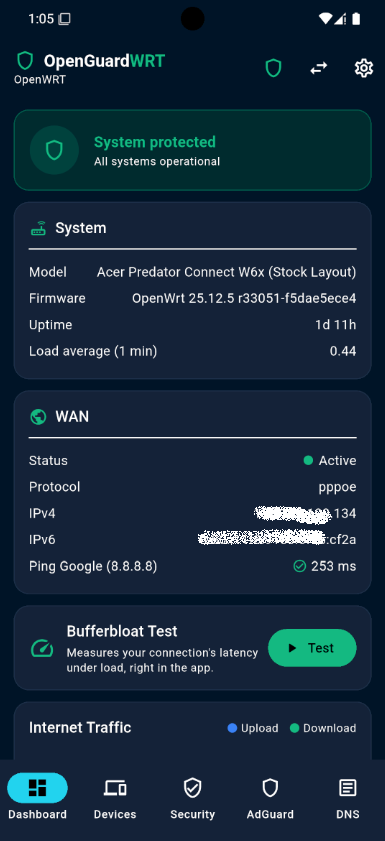
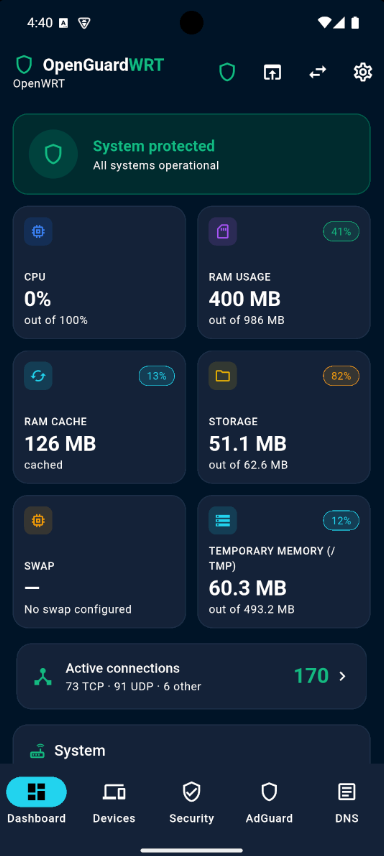
Update landing page gallery with 6 current-UI screenshots
Adds a 6th screenshot (Dashboard's SQM/DDNS/Interfaces section) and
refreshes the other 5 to match the app's current UI.

diff --git a/index.html b/index.html
@@ -226,10 +226,11 @@
     <p class="subtitle">Todo dado pessoal visível nas capturas (IP público, nomes de dispositivo, domínio de DDNS) foi borrado antes da publicação.</p>
     <div class="gallery">
       <figure><div class="phone"><img src="assets/01_dashboard.png" alt="Dashboard"></div><figcaption>Dashboard</figcaption></figure>
-      <figure><div class="phone"><img src="assets/02_devices.png" alt="Dispositivos"></div><figcaption>Dispositivos</figcaption></figure>
-      <figure><div class="phone"><img src="assets/03_security.png" alt="Segurança"></div><figcaption>Segurança</figcaption></figure>
-      <figure><div class="phone"><img src="assets/04_adguard.png" alt="AdGuard Home"></div><figcaption>AdGuard Home</figcaption></figure>
-      <figure><div class="phone"><img src="assets/05_adguard_dns.png" alt="Consultas DNS"></div><figcaption>Consultas DNS</figcaption></figure>
+      <figure><div class="phone"><img src="assets/02_dashboard_network.png" alt="Dashboard — SQM, DDNS e interfaces"></div><figcaption>Dashboard (rede)</figcaption></figure>
+      <figure><div class="phone"><img src="assets/03_devices.png" alt="Dispositivos"></div><figcaption>Dispositivos</figcaption></figure>
+      <figure><div class="phone"><img src="assets/04_security.png" alt="Segurança"></div><figcaption>Segurança</figcaption></figure>
+      <figure><div class="phone"><img src="assets/05_adguard.png" alt="AdGuard Home"></div><figcaption>AdGuard Home</figcaption></figure>
+      <figure><div class="phone"><img src="assets/06_adguard_dns.png" alt="Consultas DNS"></div><figcaption>Consultas DNS</figcaption></figure>
     </div>
   </div>
 </section>
